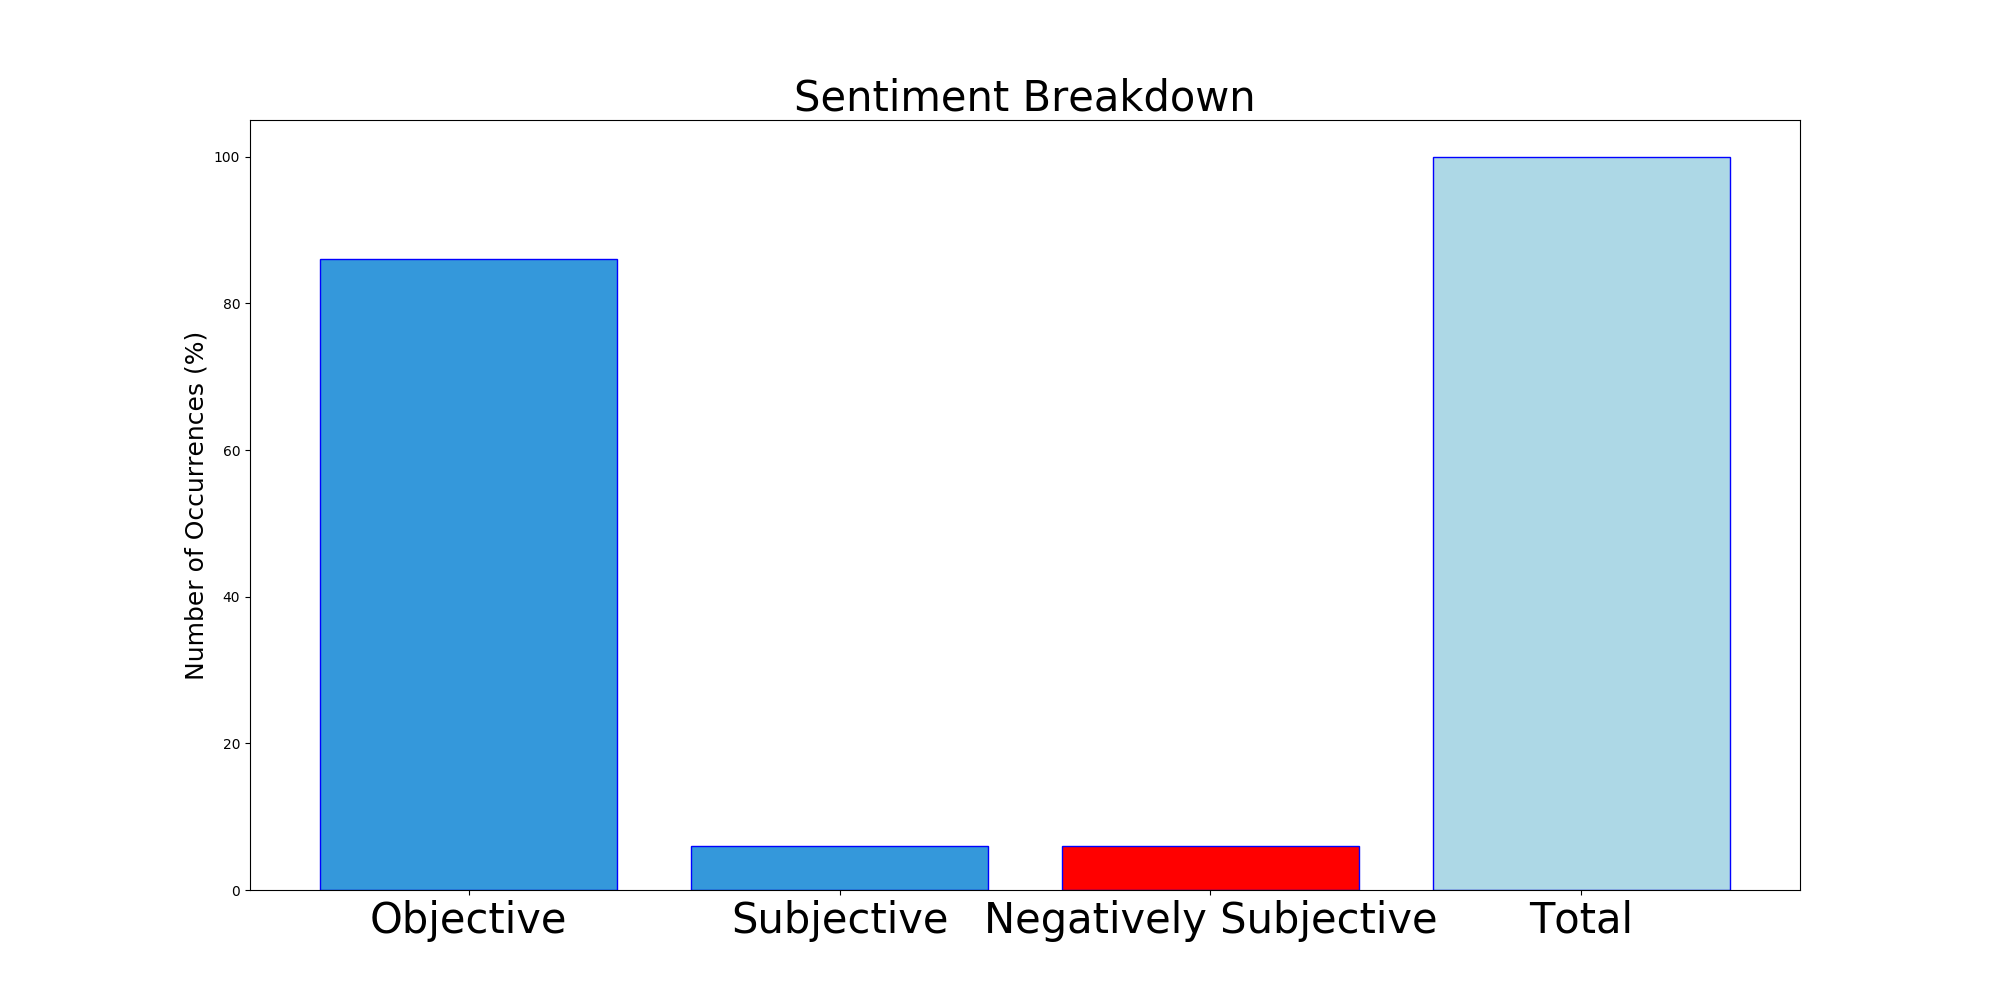
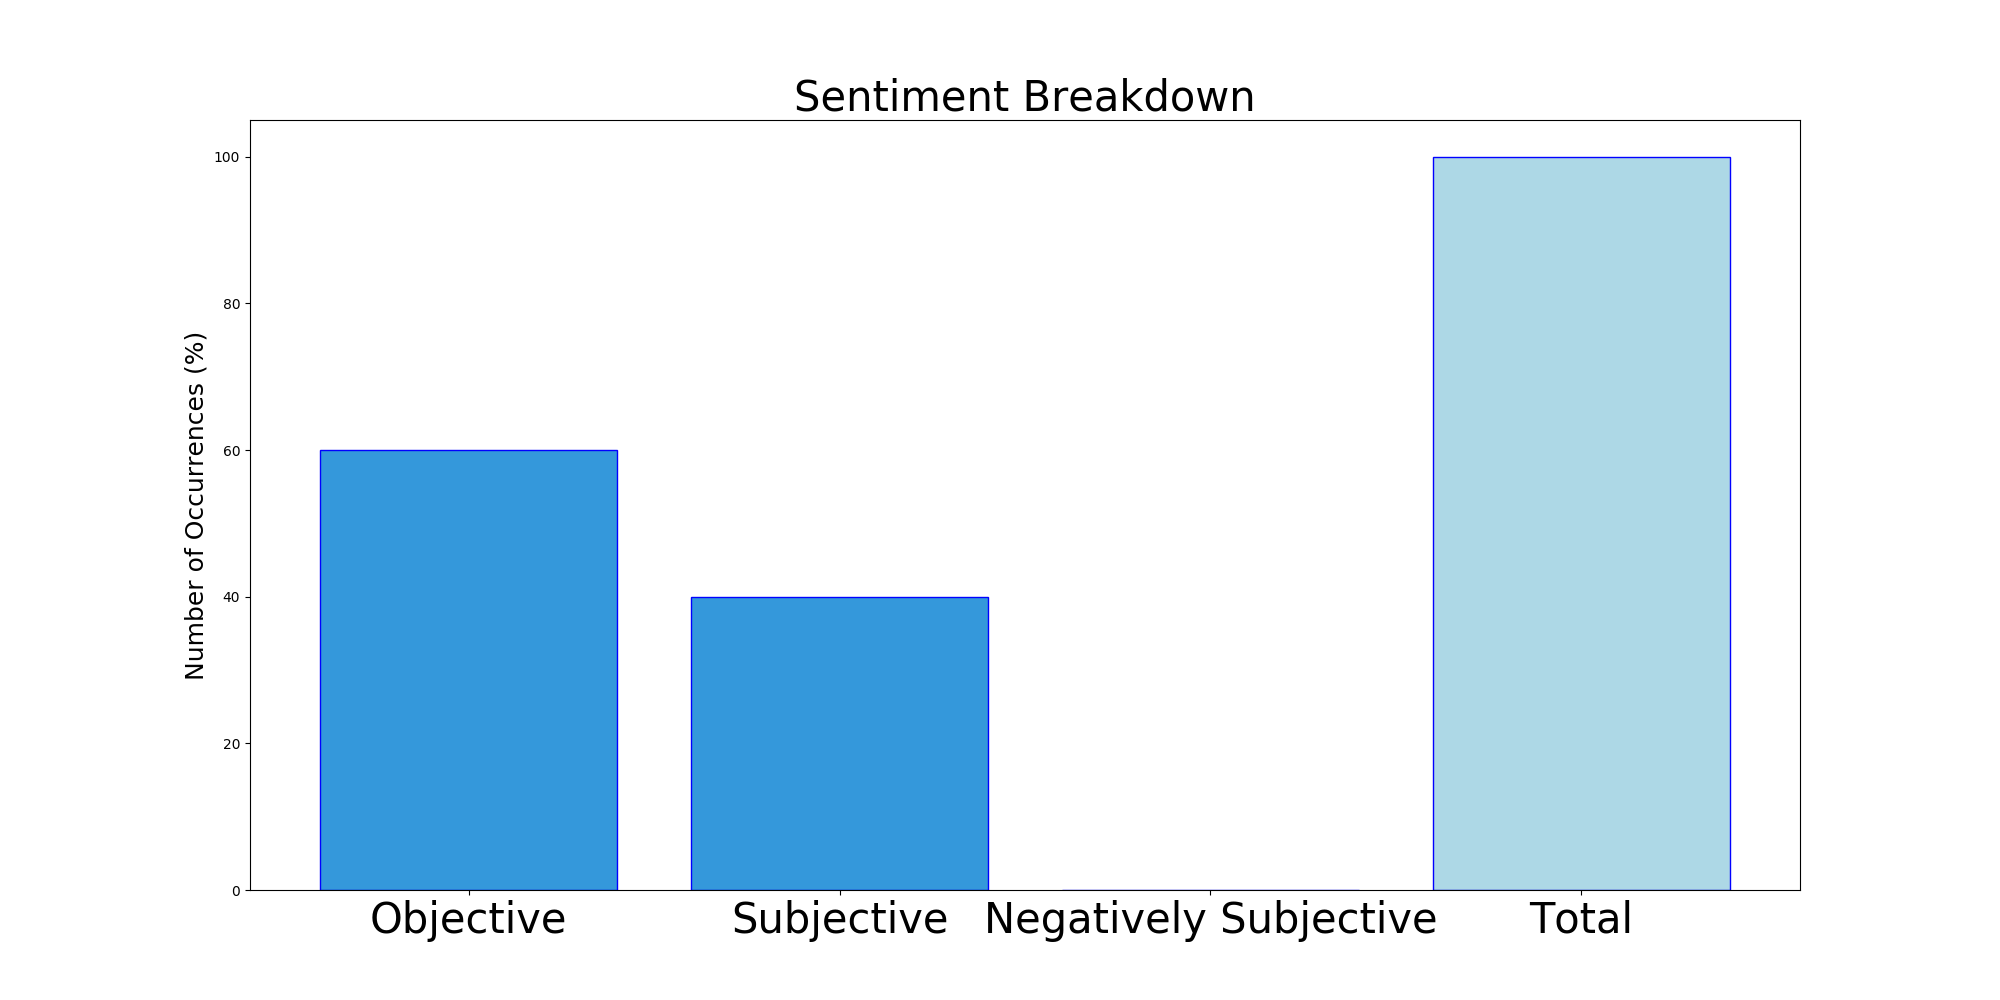
Updating with latest report

Changed region(s): [[0.341, 0.589, 0.496, 0.868], [0.155, 0.248, 0.31, 0.465], [0.527, 0.837, 0.682, 0.899]]

diff --git a/README.md b/README.md
@@ -1,5 +1,5 @@
 # MURCHIE85 TWITTER PROCESSING 
-&#x1F34E; **TOPIC = "#Jackets50"**
+&#x1F34E; **TOPIC = "realDonaldTrump"**
 
 ## AUTOMATED RESEARCH SUMMARY
 
@@ -15,18 +15,20 @@
 
 |                **Sample-Tweets**        |
 | :-------------: |
-| <div class="alert alert-block alert-warning">#Jackets50 Robinson 50</div> <div class="alert alert-block alert-success">@BlueJacketsNHL @PapaJohnsCbus Nyquist #CBJ #Jackets50</div> <div class="alert alert-block alert-info">@BlueJacketsNHL @PapaJohnsCbus David Savard #Jackets50</div> |
-The most popular user is: **NickSarfaty500**
-<div class="alert alert-block alert-danger"> RT @BlueJacketsNHL: Don't miss your chance to win FREE @PapaJohnsCbus pizza! Tweet who you think will score the second #CBJ goal with #Jack…</div>
+| <div class="alert alert-block alert-warning">RT @theangiestanton: I gave birth in chains while serving time in an American prison. @realDonaldTrump made it illegal to chain women durin…</div> <div class="alert alert-block alert-success">RT @JosephJFlynn1: Thank you @CharlieDaniels and @TJHproject  for this wonderful gift to @GenFlynn and for all you do for our awesome Veter…</div> <div class="alert alert-block alert-info">RT @BernieSanders: Don't tell @realDonaldTrump this because he'll get very nervous—we're going to beat him in Texas.</div> |
+The most popular user is: **lauriejacobs16**
+<div class="alert alert-block alert-danger"> RT @RepAdamSchiff: Mr. President, I didn’t say that. But if you wish to quote me, quote this:
+
+”The only thing Americans despise more than…</div>
 
 ## RELATED METRICS<br>
 | Metric | Value |
 | ------------- | ------------- |
-| #1 Most tweeted to  | **BlueJacketsNHL** |
-| #2 Most tweeted to  | **PapaJohnsCbus** |
-| #3 Most tweeted to  | **BluelineOnline** |
+| #1 Most tweeted to  | **realDonaldTrump** |
+| #2 Most tweeted to  | **BernieSanders** |
+| #3 Most tweeted to  | **RepAdamSchiff** |
 | NewProfiles (less than 10 days) | 0.0%  |
-| Tweeters with < 10 followers  | 11.0%|
+| Tweeters with < 10 followers  | 4.0%|
 | Tweeters with > 1000000 followers  | 0.0%  |
 
 
@@ -36,28 +38,30 @@ The most popular user is: **NickSarfaty500**
 
 | Popularity Rank  | Term |
 | ------------- | ------------- |
-| first  | **@PAPAJOHNSCBUS**  |
-| second  | **JACKETS50@BLUEJACKETSNHL**  |
-| third  | **JACKETS50** |
-| fourth  | **CBJ**  |
-| fifth  | **GOAL**  |
+| first  | **@REALDONALDTRUMP**  |
+| second  | **VERY**  |
+| third  | **"DONT"** |
+| fourth  | **TRUMP**  |
+| fifth  | **@BERNIESANDERS:**  |
 
 
 ## Twitter Bio Analysis![image](BIO.png)
 ### SENTIMENT ANALYSIS
 ![image](sentiment.png)
-VIEWS WERE : **SUBJECTIVE**  (6.67%) & **NEGATIVELY-SUBJECTIVE** (6.67%) **OBJECTIVE** (86.67%)
+VIEWS WERE : **SUBJECTIVE**  (40.0%) & **NEGATIVELY-SUBJECTIVE** (0.0%) **OBJECTIVE** (60.0%)
 
 ### TWEET SAMPLE 
 Random value picked from array: 
 
-<div class="alert alert-block alert-info">#Jackets50 Robinson 50</div>
+<div class="alert alert-block alert-info">RT @theangiestanton: I gave birth in chains while serving time in an American prison. @realDonaldTrump made it illegal to chain women durin…</div>
 
 ### MOST RETWEETED 
 
-The most retweeted user is: **NickSarfaty500**
+The most retweeted user is: **lauriejacobs16**
 
-<div class="alert alert-block alert-danger"> RT @BlueJacketsNHL: Don't miss your chance to win FREE @PapaJohnsCbus pizza! Tweet who you think will score the second #CBJ goal with #Jack…</div>
+<div class="alert alert-block alert-danger"> RT @RepAdamSchiff: Mr. President, I didn’t say that. But if you wish to quote me, quote this:
+
+”The only thing Americans despise more than…</div>
 
 ### CONCLUSION & EXTERNAL ANALYSIS
 
